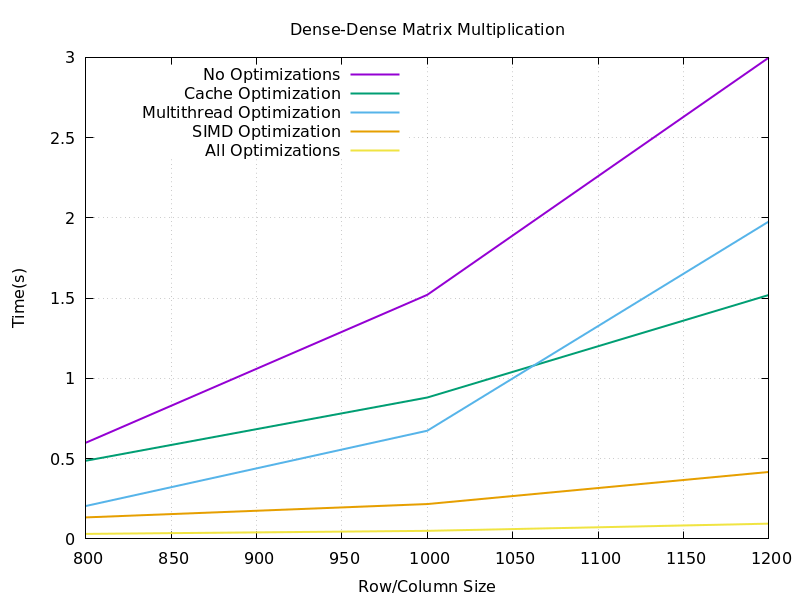
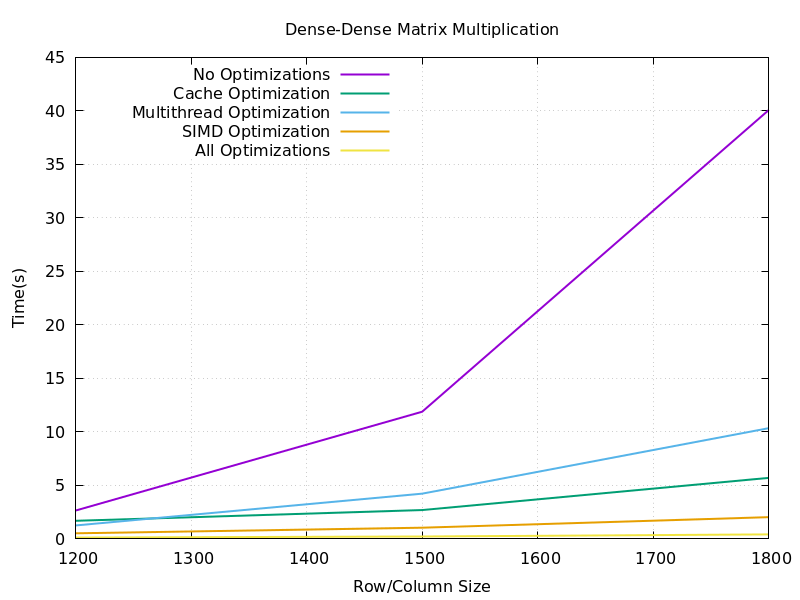
Finished README.md first draft

diff --git a/MatrixMultiplication/src/dense-sparse.cpp b/MatrixMultiplication/src/dense-sparse.cpp
@@ -4,6 +4,7 @@
 #include <SparseMatrix.h> // SparseMatrix
 #include <iomanip>        // std::invalid_argument, size_t
 #include <thread>         // std::thread and related classes
+#include <immintrin.h>    // AVX2 SIMD instructions
 
 // Function to multiply dense * sparse which have same base dimension
 std::vector<std::vector<int>> multiplyDenseSparseMatrices_none(
@@ -108,14 +109,28 @@ std::vector<std::vector<int>> multiplyDenseSparseMatrices_SIMD(
             size_t col = sparse.rows[r][i]; 
             int val = sparse.values[r][i];
 
-            // With target column, multiply and accumulate rows from dense matrix
-            #pragma omp simd
-            for (size_t dense_r = 0; dense_r < num_rows; dense_r++) {
-               result[dense_r][col] += dense[dense_r][col] * val;
+            // Load dense matrix values for the target column using AVX2
+            for (size_t dense_r = 0; dense_r < num_rows; dense_r += 8) { // Process 8 rows at a time
+                // Ensure we don't exceed the bounds
+                __m256i dense_vals = _mm256_setzero_si256(); // Initialize a zero vector for accumulation
+
+                // Load up to 8 elements from the dense matrix into SIMD register
+                for (size_t j = 0; j < 8 && (dense_r + j) < num_rows; j++) {
+                    dense_vals = _mm256_insert_epi32(dense_vals, dense[dense_r + j][col], j);
+                }
+
+                // Multiply the dense values by the sparse value
+                __m256i sparse_vals = _mm256_set1_epi32(val); // Broadcast the sparse value
+                __m256i prod = _mm256_mullo_epi32(dense_vals, sparse_vals); // Multiply dense values with sparse value
+
+                // Accumulate the products into the result matrix
+                for (size_t j = 0; j < 8 && (dense_r + j) < num_rows; j++) {
+                    result[dense_r + j][col] += _mm256_extract_epi32(prod, j);
+                }
             }
         }
     }
-    return result;
+    return result;  // Return the resulting matrix
 }
 
 std::vector<std::vector<int>> multiplyDenseSparseMatrices_all(

diff --git a/MatrixMultiplication/main.cpp b/MatrixMultiplication/main.cpp
@@ -108,13 +108,13 @@ int main(int argc, char* argv[]) {
     auto end = std::chrono::high_resolution_clock::now();
 
     // Define test cases
-    std::vector<size_t> sizes = {800, 1000, 1200};
+    std::vector<size_t> sizes = {1200, 1500, 1800};
     std::vector<double> sparsityVals = {0.001, 0.01, 0.1};
 
     // Allow configurable number of threads
     int num_threads = 12;
     if(argc > 2) {
-        num_threads = *argv[2] - '0'; // Convert from char to int
+        num_threads = std::stoi(argv[2]); // Convert from str to int
         std::cout << "Running with " << num_threads << " threads." << std::endl;
     }
 
@@ -209,7 +209,7 @@ int main(int argc, char* argv[]) {
                 end = std::chrono::high_resolution_clock::now();
                 double time_none = std::chrono::duration_cast<std::chrono::milliseconds>(end - start).count() / 1000.0;
                 times_none.push_back(time_none);
-                std::cout << time_none << std::endl;
+                std::cout << time_none << " seconds" << std::endl;
 
                 // Cache optimization
                 std::cout << "Running operation with cache optimization" << std::endl;

diff --git a/MatrixMultiplication/README.md b/MatrixMultiplication/README.md
@@ -5,7 +5,8 @@
 2. Utilized OpenMP SIMD directives for automatic data vectorization
 3. Built upon cache optimization knowledge gleaned from past projects
 4. Created multithreaded versions of matrix multiplication
-5. Combined the above strategies for maximum performance
+5. Combined the above strategies to perform matrix multiplication up to 100 times faster
+6. Used gnuplot for plotting and data analysis
 
 ## Overview
 Sparse matrix multiplication involves multiplying matrices in which most elements are zero. Instead of storing and computing with all elements, sparse matrices only store and operate on the non-zero values, saving significant memory and computational resources. This technique is especially useful in industries where large, high-dimensional datasets are common but most of the data points are zero or insignificant.
@@ -50,7 +51,7 @@ LIL allows for dynamic updates, making it easy to incrementally build sparse mat
    - Once a row multiplication is completed, the algorithm stores only the non-zero values in the corresponding row of the result matrix. This keeps the result matrix in sparse format and avoids unnecessary storage of zeros.
 
 ### Cache Optimization
-#### I implemented `Loop Tiling` as it provides the following benefits:
+#### I implemented *Loop Tiling* as it provides the following benefits:
 
 1. **Minimizes Cache Misses**
    - **Spatial Locality**: Keeps data accessed together, improving cache hits.
@@ -64,63 +65,121 @@ LIL allows for dynamic updates, making it easy to incrementally build sparse mat
    - **Work Distribution**: Balances workloads across threads using separate tiles.
    - **Reduced False Sharing**: Aligns data access patterns to minimize conflicts.
 
-
-<div style="background-color: #f0f8ff; color: #333333; padding: 15px; border-radius: 5px; border: 1px solid #b0e0e6;">
-
-**Benefits of Loop Tiling**
-
-1. **Minimizes Cache Misses**
-   - **Spatial Locality**: Keeps data accessed together, improving cache hits.
-   - **Temporal Locality**: Reuses data within tiles, reducing memory fetches.
-   - **Better Cache Utilization**: Optimizes memory access patterns based on cache size.
-
-2. **Increases Speed**
-   - **Reduced Latency**: Faster access to data in cache compared to main memory.
-   - **Increased Throughput**: More data processed in less time due to optimized access.
-   - **Improved Instruction-Level Parallelism**: Allows for better compiler optimizations.
-
-3. **Enhances Multithreading Performance**
-   - **Work Distribution**: Balances workloads across threads using separate tiles.
-   - **Reduced False Sharing**: Aligns data access patterns to minimize conflicts.
-
-4. **Adaptable to Hardware**
-   - **Tailored to Cache Hierarchy**: Matches tile size to cache architecture for maximum performance.
-
-</div>
-
-
 ### Multithreading Optimization
+#### I utilized `std::thread` to divide the multiplication up into 12 parts, one for each thread support by my CPU.
+
 ### SIMD Optimization
+#### I utilized AVX2 SIMD instructions in the following manner:
+1. **Initialization**: 
+   - The result matrix is initialized to zero with dimensions based on matrices \( A \) and \( B \).
+   - A 256-bit SIMD register (`__m256i sum`) is initialized to accumulate results for the dot product.
+
+2. **Loading Data**:
+   - For each element in the result matrix, the function processes 8 integers (32-bit each) at a time:
+     - **Load operation**: The elements from the current row of matrix \( A \) and the current column of matrix \( B \) are loaded into SIMD registers using `_mm256_loadu_si256`.
+
+3. **Multiplication**:
+   - The multiplication of the loaded vectors from \( A \) and \( B \) is performed using the `_mm256_mullo_epi32` function, which multiplies corresponding elements of the two vectors.
+
+4. **Accumulation**:
+   - The products are accumulated into the `sum` register using `_mm256_add_epi32`, allowing simultaneous addition of all 8 products.
+
+5. **Horizontal Sum**:
+   - After processing all elements for a given pair `(i, j)`, the contents of the `sum` register are stored into a temporary array.
+   - A horizontal sum is then performed by manually adding the 8 elements in the temporary array to obtain the final result for the result matrix at position `result[i][j]`.
+
 ### All Optimizations
+#### When combining all optimizations into one function, extreme care was taken to combine the strengths of loop tiling, multithreading, and AVX2 SIMD instructions without causing errors.
 
 ### Results and Analysis
+1. **Setup**:
+   - Sizes: `{3000, 4000, 5000}`
+   - Sparsity Percentages: `{0.1%, 1%, 10%}`
+
+2. **Results**:
+   - The overhead required by the optimization methods is not justified for very small and sparse matrices.
+   - SIMD is the most effective optimization method.
+   - Using all methods completed the calculation up to 24 times faster.
+
 <p align="center">
-  <img src="images/dense-dense.png" alt="Results for dense-dense multiplication" />
+  <img src="images/combinedSpSp.jpg" alt="Results for sparse-sparse" />
 </p>
-Here, we see that the above optimization methods were extremely effective, with SIMD being the clear best. We can also see that for smaller matrices, multithreading may be less optimal than effective caching.
 
-### Cache Optimization
-### Multithreading Optimization
-### SIMD Optimization
-### All Optimizations
+## Dense-Sparse Matrix Multiplication
+In our sparse matrix representation, we store the corresponding column for each entry. The process of dense-sparse multiplication can be optimized as follows:
 
-### Dense-Sparse Matrix Multiplication
-Since we store the corresponding column of each entry in the sparse matrix, we use the below figure to demonstrate how we can optimally perform the calculation. If we focus on the `e` index, we can see that it will be multiplied by all values in the matching column of the dense matrix. Additionally, we can see that these values are accumulated into the dense matrix row of the iten `e` is multiplied by.  Therefore, to perform dense-sparse multiplication, we can simply iterate through the sparse matrix, multiply by the appropriate value in each row of the same column of the dense matrix, and then add each result to the resulting matrix index. This is shown in the rough sketch below.
+- Focus on a specific index (e).
+- Multiply the value at index e by all corresponding values in the matching column of the dense matrix.
+- Accumulate these results into the dense matrix row associated with index e.
+
+To perform the multiplication:
+1. Iterate through the sparse matrix.
+2. Multiply by the appropriate value in each row of the corresponding dense matrix column.
+3. Add the results to the resulting matrix index.
+
+The figure below has been provided as a guide.
 <p align="center">
   <img src="images/dense-sparse.jpg" alt="Calculation for dense-sparse" />
 </p>
 
-### Dense-Dense Matrix Multiplication
+### Similar Optimization Methods:
+1. **Multithreading:** `std::thread`
+2. **SIMD:** AVX2 Instructions
 
-https://chryswoods.com/vector_c++/vectorisation.html
+### Caching Optimization Improvements:
+1. **Ordering:**: Substantial performance boosts can be gained by iterating first over the dense matrix, which exists sequentially in cache.
+2. **Tiling**: Tiling works extremely well in tandem with this strategy, leading to dominant cache optimization performance.
 
-TODO: Make sure to run with size > cache
 
-discuss openmps
+### Results and Analysis
+1. **Setup**:
+   - Sizes: `{1200, 1500, 1800}`
+   - Sparsity Percentages: `{0.1%, 1%, 10%}`
+2. **Results**:
+   - Due to the varying structures between the matrices, cache optimization is key.
+   - This process was much harder to apply SIMD to, and therefore SIMD was much less effective.
+   - Using all methods completed the calculation up to 33 times faster.
 
-cache optimization;
-Use vector instead of unordered_map for row_result
-Pre-allocate memory for vectors
-Use references to avoid unnecessary copying
-Reduce cache misses by changing the loop order
-Use local variables to reduce repeated access to vector elements
+<p align="center">
+  <img src="images/combinedDSp.jpg" alt="Results for sparse-sparse" />
+</p>
+
+## Dense-Dense Matrix Multiplication
+
+### Similar Optimization Methods:
+1. **Cache:** Loop Tiling
+2. **Multithreading:** `std::thread`
+3. **SIMD:** AVX2 Instructions
+
+### Combined Optimization Improvements
+1. **OpenMP Multithreading:**: Cleaner, compiler-driven multithreading.
+2. **OpenMP SIMD Directives**: Collapsed outermost loops of operation.
+3. **AVX2 Instructions**: Used in tandem with OpenMP SIMD directives.
+
+### Results and Analysis
+1. **Setup**:
+   - Sizes: `{1200, 1500, 1800}`
+   - Sparsity Percentages: `{0.1%, 1%, 10%}`
+2. **Results**:
+   - Dropped time from 39 (no optimizations) seconds to 0.388 seconds (all optimizations) for a 99.5% reduction.
+   - SIMD was by far the most productive optimization method, as fully dense matrices are comprised almost entirely of vectorizable data.
+   - Using all methods completed the calculation up to 100 times faster.
+
+<p align="center">
+  <img src="images/dense-dense.png" alt="Results for dense-dense multiplication" />
+</p>
+
+## Experimental Setup
+1. **Clone this repository**
+2. **Use `make` to build**
+3. **Configured flags**
+   - `-pthread`: `std::thread`
+   - `-fopenmp-simd`: OpenMP SIMD directives
+   - `-fopenmp`: OpenMP SIMD directives
+   - `-mavx2`: AVX2 SIMD instructions
+4. **Run ./mult.exe after compiling**
+5. **Example calls**
+   - `./mult.exe dsp`: Runs dense-sparse multiplication
+   - `./mult.exe spsp`: Runs sparse-sparse multiplication
+   - `./mult.exe dd`: Runs dense-dense multiplication
+   - `./mult.exe dsp 10`: Runs dense-sparse multiplication with 10 threads
